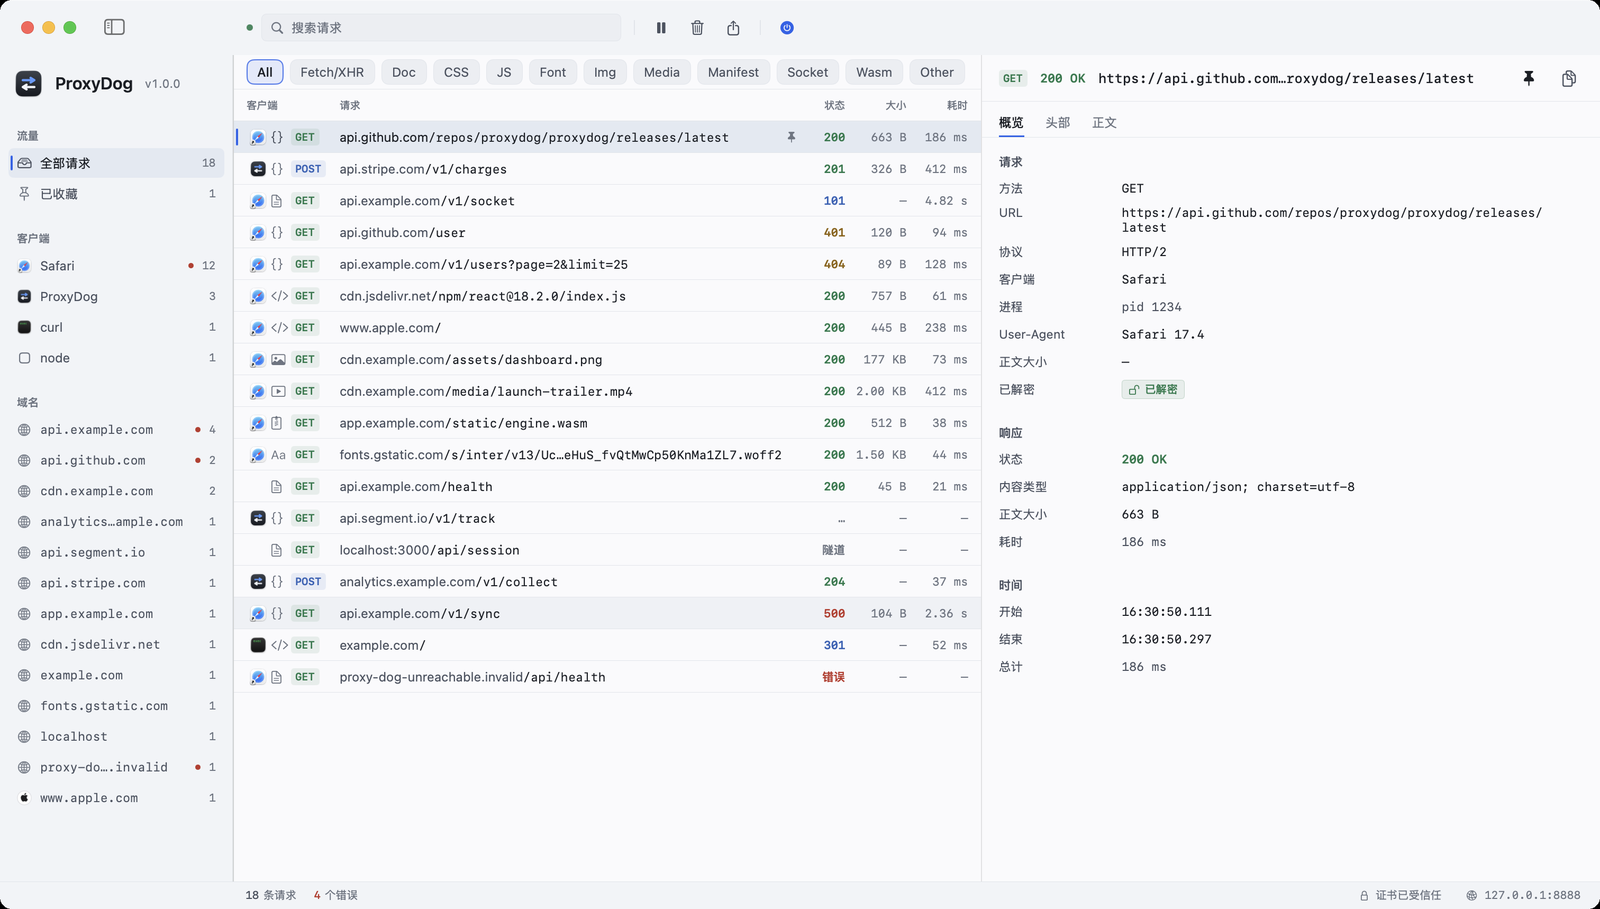
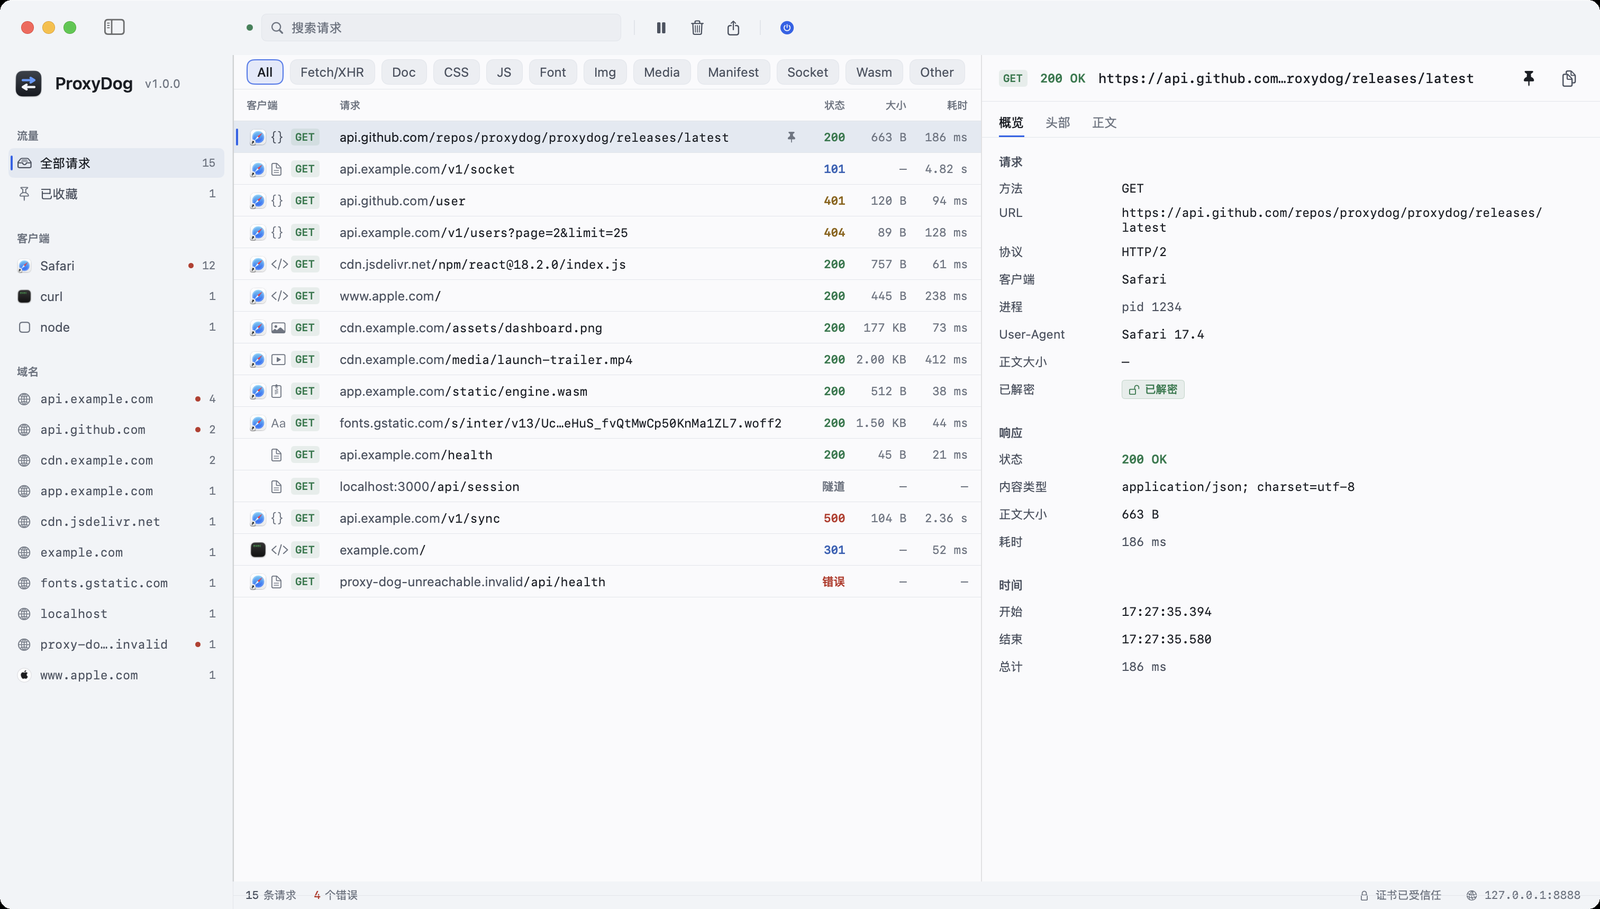
Let the sidebar run to the bottom of the window

diff --git a/Sources/ProxyDog/UI/StatusBarView.swift b/Sources/ProxyDog/UI/StatusBarView.swift
@@ -35,7 +35,24 @@ struct StatusBarView: View {
         .padding(.trailing, DS.Space.x3)
         .frame(height: DS.Metric.statusBarHeight)
         .background(DSColor.chrome)
-        .overlay(alignment: .top) { PDHairline() }
+        // The sidebar visually runs to the bottom of the window: the strip's leading
+        // segment blends into it, so only the content part gets a top divider, and the
+        // column separator continues through the strip.
+        .overlay(alignment: .top) {
+            HStack(spacing: 0) {
+                Color.clear.frame(width: leadingInset)
+                PDHairline()
+            }
+        }
+        .overlay(alignment: .topLeading) {
+            if leadingInset > 0 {
+                Rectangle()
+                    .fill(DSColor.border)
+                    .frame(width: DS.Metric.separator)
+                    .frame(maxHeight: .infinity)
+                    .offset(x: leadingInset)
+            }
+        }
     }
 
     private var errorCount: Int {
